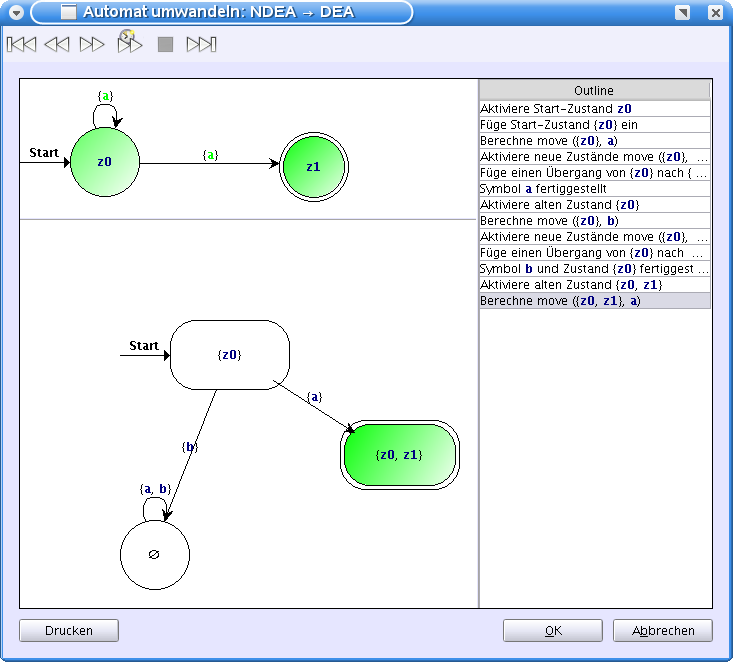
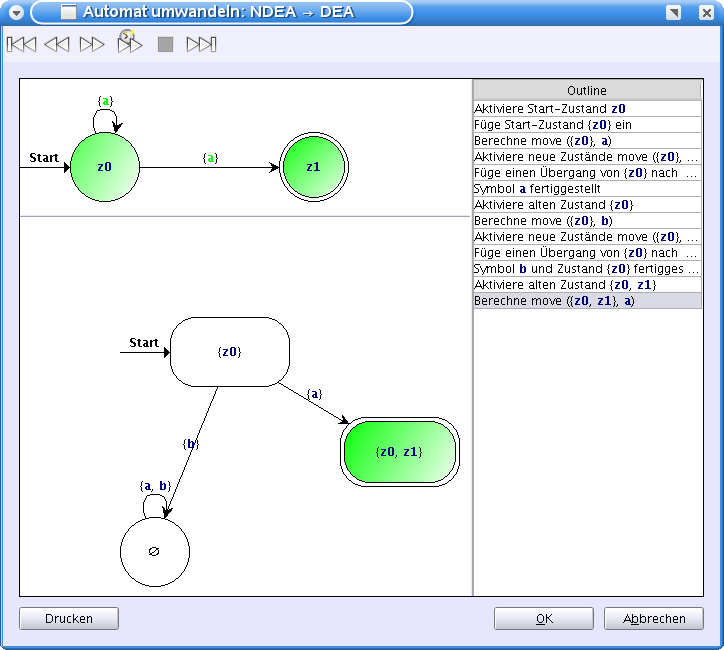
- Calculate the perimeter point of powerset states. - Update the manual images.
git-svn-id: https://vcs.informatik.uni-siegen.de/svn/gtitool/trunk@1192 d1fb0f2a-2248-4f96-a540-7c12a6a72a62

diff --git a/de.unisiegen.gtitool.ui/source/de/unisiegen/gtitool/ui/jgraph/StateView.java b/de.unisiegen.gtitool.ui/source/de/unisiegen/gtitool/ui/jgraph/StateView.java
@@ -603,10 +603,19 @@ public final class StateView extends VertexView
   {
     Rectangle2D r = getBounds ();
 
+    boolean powerSet = false;
+    if ( getCell () instanceof DefaultStateView )
+    {
+      State state = ( ( DefaultStateView ) getCell () ).getState ();
+      powerSet = state.isPowerState ();
+    }
+
     double x = r.getX ();
     double y = r.getY ();
     double a = ( r.getWidth () + 1 ) / 2;
     double b = ( r.getHeight () + 1 ) / 2;
+    int width = ( int ) r.getWidth ();
+    int height = ( int ) r.getHeight ();
 
     if ( getCell () instanceof DefaultStateView )
     {
@@ -615,11 +624,13 @@ public final class StateView extends VertexView
       {
         x = r.getX () + START_OFFSET;
         a = ( r.getWidth () - START_OFFSET + 1 ) / 2;
+        width -= START_OFFSET;
       }
       if ( state.isLoopTransition () )
       {
         y = r.getY () + LOOP_TRANSITION_OFFSET;
         b = ( r.getHeight () - LOOP_TRANSITION_OFFSET + 1 ) / 2;
+        height -= LOOP_TRANSITION_OFFSET;
       }
     }
 
@@ -675,6 +686,53 @@ public final class StateView extends VertexView
       yout = yout2;
     }
 
+    if ( powerSet )
+    {
+      int checkX = ( int ) ( xout - x );
+      int checkY = ( int ) ( yout - y );
+
+      if ( ( checkX >= a ) && ( checkY <= b ) )
+      {
+        while ( !isAllowedTopRight ( checkX, checkY, width -1) )
+        {
+          xout = xout + 1;
+          yout = yout - 1;
+          checkX = ( int ) ( xout - x );
+          checkY = ( int ) ( yout - y );
+        }
+      }
+      else if ( ( checkX <= a ) && ( checkY <= b ) )
+      {
+        while ( !isAllowedTopLeft ( checkX, checkY ) )
+        {
+          xout = xout - 1;
+          yout = yout - 1;
+          checkX = ( int ) ( xout - x );
+          checkY = ( int ) ( yout - y );
+        }
+      }
+      else if ( ( checkX <= a ) && ( checkY >= b ) )
+      {
+        while ( !isAllowedBottomLeft ( checkX, checkY, height-1 ) )
+        {
+          xout = xout - 1;
+          yout = yout + 1;
+          checkX = ( int ) ( xout - x );
+          checkY = ( int ) ( yout - y );
+        }
+      }
+      else if ( ( checkX >= a ) && ( checkY >= b ) )
+      {
+        while ( !isAllowedBottomRight ( checkX, checkY, width-1, height-1 ) )
+        {
+          xout = xout + 1;
+          yout = yout + 1;
+          checkX = ( int ) ( xout - x );
+          checkY = ( int ) ( yout - y );
+        }
+      }
+    }
+
     return getAttributes ().createPoint ( xout, yout );
   }
 
@@ -688,5 +746,144 @@ public final class StateView extends VertexView
   public final CellViewRenderer getRenderer ()
   {
     return this.ellipseRenderer;
+  }
+
+
+  /**
+   * Returns true if the given point is allowed, otherwise false.
+   * 
+   * @param x The x value.
+   * @param y The y value.
+   * @param height The height.
+   * @return True if the given point is allowed, otherwise false.
+   */
+  private final boolean isAllowedBottomLeft ( int x, int y, int height )
+  {
+    if ( ( ( x == 1 ) && ( y < height - 17 ) )
+        || ( ( x == 2 ) && ( y < height - 14 ) )
+        || ( ( x == 3 ) && ( y < height - 12 ) )
+        || ( ( x == 4 ) && ( y < height - 11 ) )
+        || ( ( x == 5 ) && ( y < height - 10 ) )
+        || ( ( x == 6 ) && ( y < height - 8 ) )
+        || ( ( x == 7 ) && ( y < height - 7 ) )
+        || ( ( x == 8 ) && ( y < height - 6 ) )
+        || ( ( x == 9 ) && ( y < height - 5 ) )
+        || ( ( x == 10 ) && ( y < height - 5 ) )
+        || ( ( x == 11 ) && ( y < height - 4 ) )
+        || ( ( x == 12 ) && ( y < height - 3 ) )
+        || ( ( x == 13 ) && ( y < height - 2 ) )
+        || ( ( x == 14 ) && ( y < height - 2 ) )
+        || ( ( x == 15 ) && ( y < height - 1 ) )
+        || ( ( x == 16 ) && ( y < height - 1 ) )
+        || ( ( x == 17 ) && ( y < height - 1 ) )
+        || ( ( x == 18 ) && ( y < height - 0 ) )
+        || ( ( x == 19 ) && ( y < height - 0 ) )
+        || ( ( x >= 20 ) && ( y < height - 0 ) ) )
+    {
+      return false;
+    }
+    return true;
+  }
+
+
+  /**
+   * Returns true if the given point is allowed, otherwise false.
+   * 
+   * @param x The x value.
+   * @param y The y value.
+   * @param width The width.
+   * @param height The height.
+   * @return True if the given point is allowed, otherwise false.
+   */
+  private final boolean isAllowedBottomRight ( int x, int y, int width,
+      int height )
+  {
+    if ( ( ( x == width - 1 ) && ( y < height - 17 ) )
+        || ( ( x == width - 2 ) && ( y < height - 14 ) )
+        || ( ( x == width - 3 ) && ( y < height - 12 ) )
+        || ( ( x == width - 4 ) && ( y < height - 11 ) )
+        || ( ( x == width - 5 ) && ( y < height - 10 ) )
+        || ( ( x == width - 6 ) && ( y < height - 8 ) )
+        || ( ( x == width - 7 ) && ( y < height - 7 ) )
+        || ( ( x == width - 8 ) && ( y < height - 6 ) )
+        || ( ( x == width - 9 ) && ( y < height - 5 ) )
+        || ( ( x == width - 10 ) && ( y < height - 5 ) )
+        || ( ( x == width - 11 ) && ( y < height - 4 ) )
+        || ( ( x == width - 12 ) && ( y < height - 3 ) )
+        || ( ( x == width - 13 ) && ( y < height - 2 ) )
+        || ( ( x == width - 14 ) && ( y < height - 2 ) )
+        || ( ( x == width - 15 ) && ( y < height - 1 ) )
+        || ( ( x == width - 16 ) && ( y < height - 1 ) )
+        || ( ( x == width - 17 ) && ( y < height - 1 ) )
+        || ( ( x == width - 18 ) && ( y < height - 0 ) )
+        || ( ( x == width - 19 ) && ( y < height - 0 ) )
+        || ( ( x <= width - 20 ) && ( y < height - 0 ) ) )
+    {
+      return false;
+    }
+    return true;
+  }
+
+
+  /**
+   * Returns true if the given point is allowed, otherwise false.
+   * 
+   * @param x The x value.
+   * @param y The y value.
+   * @return True if the given point is allowed, otherwise false.
+   */
+  private final boolean isAllowedTopLeft ( int x, int y )
+  {
+    if ( ( ( x == 1 ) && ( y > 17 ) ) || ( ( x == 2 ) && ( y > 14 ) )
+        || ( ( x == 3 ) && ( y > 12 ) ) || ( ( x == 4 ) && ( y > 11 ) )
+        || ( ( x == 5 ) && ( y > 10 ) ) || ( ( x == 6 ) && ( y > 8 ) )
+        || ( ( x == 7 ) && ( y > 7 ) ) || ( ( x == 8 ) && ( y > 6 ) )
+        || ( ( x == 9 ) && ( y > 5 ) ) || ( ( x == 10 ) && ( y > 5 ) )
+        || ( ( x == 11 ) && ( y > 4 ) ) || ( ( x == 12 ) && ( y > 3 ) )
+        || ( ( x == 13 ) && ( y > 2 ) ) || ( ( x == 14 ) && ( y > 2 ) )
+        || ( ( x == 15 ) && ( y > 1 ) ) || ( ( x == 16 ) && ( y > 1 ) )
+        || ( ( x == 17 ) && ( y > 1 ) ) || ( ( x == 18 ) && ( y > 0 ) )
+        || ( ( x == 19 ) && ( y > 0 ) ) || ( ( x >= 20 ) && ( y > 0 ) ) )
+    {
+      return false;
+    }
+    return true;
+  }
+
+
+  /**
+   * Returns true if the given point is allowed, otherwise false.
+   * 
+   * @param x The x value.
+   * @param y The y value.
+   * @param width The width.
+   * @return True if the given point is allowed, otherwise false.
+   */
+  private final boolean isAllowedTopRight ( int x, int y, int width )
+  {
+    if ( ( ( x == width - 1 ) && ( y > 17 ) )
+        || ( ( x == width - 2 ) && ( y > 14 ) )
+        || ( ( x == width - 3 ) && ( y > 12 ) )
+        || ( ( x == width - 4 ) && ( y > 11 ) )
+        || ( ( x == width - 5 ) && ( y > 10 ) )
+        || ( ( x == width - 6 ) && ( y > 8 ) )
+        || ( ( x == width - 7 ) && ( y > 7 ) )
+        || ( ( x == width - 8 ) && ( y > 6 ) )
+        || ( ( x == width - 9 ) && ( y > 5 ) )
+        || ( ( x == width - 10 ) && ( y > 5 ) )
+        || ( ( x == width - 11 ) && ( y > 4 ) )
+        || ( ( x == width - 12 ) && ( y > 3 ) )
+        || ( ( x == width - 13 ) && ( y > 2 ) )
+        || ( ( x == width - 14 ) && ( y > 2 ) )
+        || ( ( x == width - 15 ) && ( y > 1 ) )
+        || ( ( x == width - 16 ) && ( y > 1 ) )
+        || ( ( x == width - 17 ) && ( y > 1 ) )
+        || ( ( x == width - 18 ) && ( y > 0 ) )
+        || ( ( x == width - 19 ) && ( y > 0 ) )
+        || ( ( x <= width - 20 ) && ( y > 0 ) ) )
+    {
+      return false;
+    }
+    return true;
   }
 }
